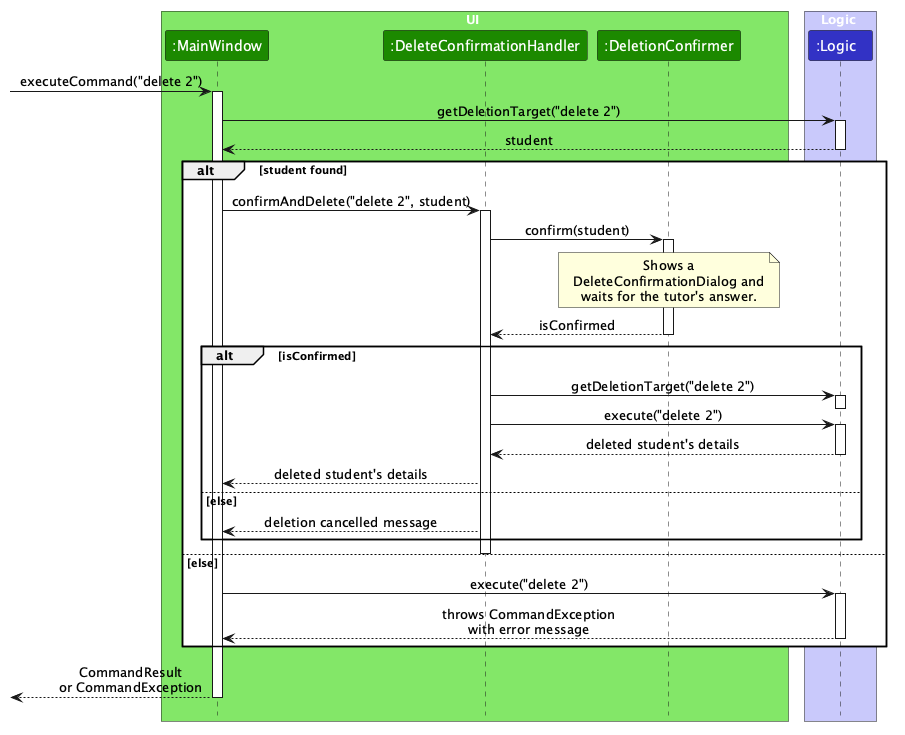
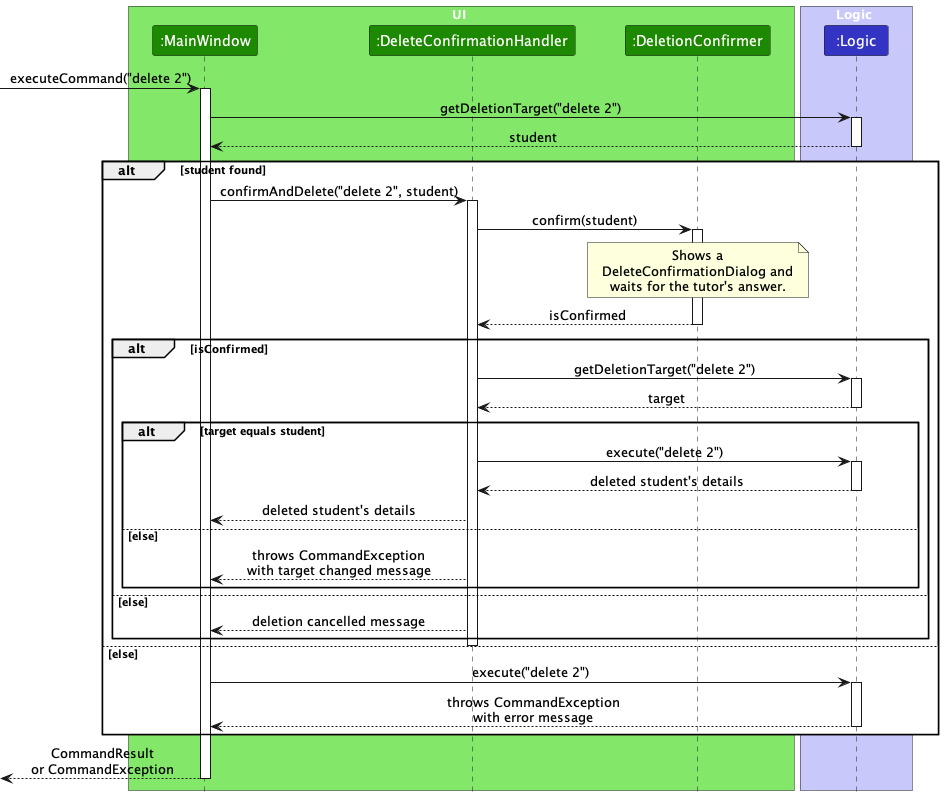
Show the deletion target recheck in the sequence diagram
After the tutor confirms, the delete confirmation sequence diagram
called getDeletionTarget a second time but never used the result, so
the safety check that DeleteConfirmationHandler performs was missing,
and the DG had to say that the diagram leaves out its error.

Let's show the returned target, the comparison with the confirmed
student, and the CommandException that the handler throws when they
differ, and update the DG sentence that introduces the diagram.

Changed region(s): [[0.0, 0.0, 1.0, 0.9878], [0.7116, 0.6585, 0.7425, 0.6884], [0.7116, 0.1197, 0.7425, 0.1497]]

diff --git a/docs/DeveloperGuide.md b/docs/DeveloperGuide.md
@@ -217,7 +217,7 @@ The activity diagram below shows what happens when the tutor enters `delete INDE
 1. If the tutor cancels, the handler returns a `CommandResult` with a cancellation message without calling `Logic#execute(String)`, so nothing is deleted or saved. `MainWindow` then restores the selection as it does after any other successful command.
 1. If the tutor confirms, the handler calls `Logic#getDeletionTarget(String)` again to check that the index still identifies the same student. It then calls `Logic#execute(String)`, which deletes the student and saves the data as before. While the dialog is open, the tutor cannot enter commands, so the displayed list cannot change. The second check is a safeguard in case a future change allows the list to change during confirmation: if a different student now has that index, the handler throws a `CommandException` and deletes nothing.
 
-The sequence diagram below shows these steps for `delete 2`. For simplicity, it leaves out the error that the handler reports if the second check finds a different student.
+The sequence diagram below shows these steps for `delete 2`, including the second check and the error that the handler reports if that check fails.
 
 <img src="images/DeleteConfirmationSequenceDiagram.png" width="800" />
 
